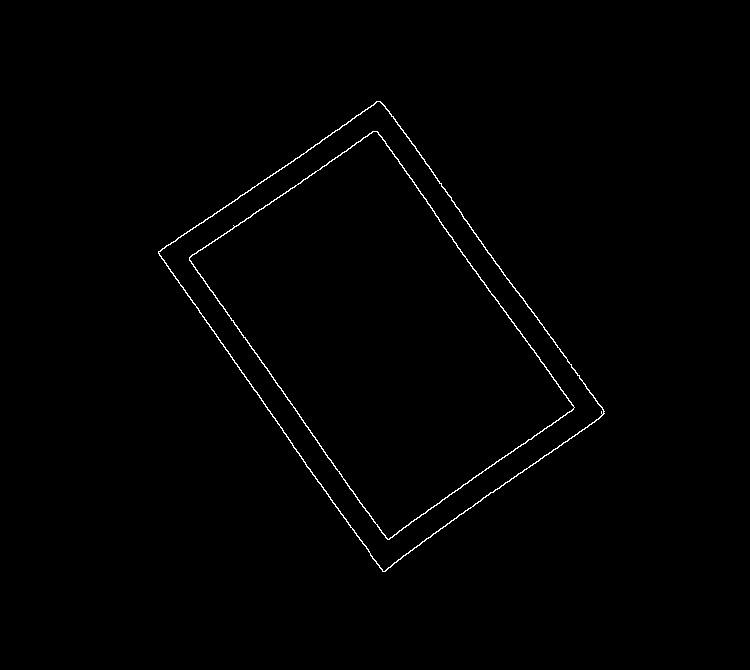
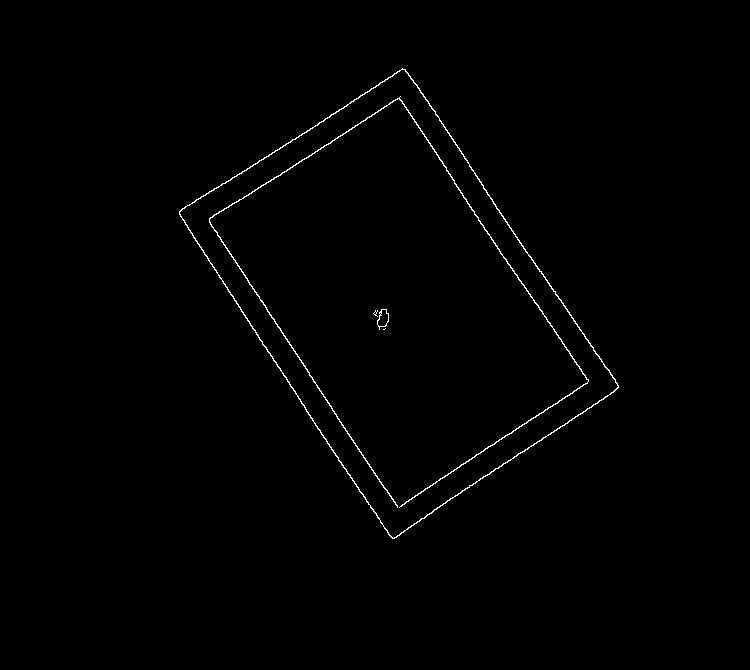
都成了

diff --git a/utils/line.py b/utils/line.py
@@ -1,0 +1,141 @@
+#!/usr/bin/env python3
+#coding=utf-8
+
+#============================#
+#Program:RANSAC_Line.py
+#       
+#Date:20-2-29
+#Author:liheng
+#Version:V1.0
+#============================#
+
+import numpy as np
+import random
+import math
+
+import cv2
+
+def fitLineRansac(points,iterations=1000,sigma=1.0,k_min=-7,k_max=7):
+    """
+    RANSAC 拟合2D 直线
+    :param points:输入点集,numpy [points_num,1,2],np.float32
+    :param iterations:迭代次数
+    :param sigma:数据和模型之间可接受的差值,车道线像素宽带一般为10左右
+                （Parameter use to compute the fitting score）
+    :param k_min:
+    :param k_max:k_min/k_max--拟合的直线斜率的取值范围.
+                考虑到左右车道线在图像中的斜率位于一定范围内，
+                添加此参数，同时可以避免检测垂线和水平线
+    :return:拟合的直线参数,It is a vector of 4 floats
+                (vx, vy, x0, y0) where (vx, vy) is a normalized
+                vector collinear to the line and (x0, y0) is some
+                point on the line.
+    """
+    line = [0,0,0,0]
+    points_num = points.shape[0]
+
+    if points_num<2:
+        return line
+
+    bestScore = -1
+    for k in range(iterations):
+        i1,i2 = random.sample(range(points_num), 2)
+        p1 = points[i1][0]
+        p2 = points[i2][0]
+
+        dp = p1 - p2 #直线的方向向量
+        dp *= 1./np.linalg.norm(dp) # 除以模长，进行归一化
+
+        score = 0
+        a = dp[1]/dp[0]
+        if a <= k_max and a>=k_min:
+            for i in range(points_num):
+                v = points[i][0] - p1
+                dis = v[1]*dp[0] - v[0]*dp[1]#向量a与b叉乘/向量b的摸.||b||=1./norm(dp)
+                # score += math.exp(-0.5*dis*dis/(sigma*sigma))误差定义方式的一种
+                if math.fabs(dis)<sigma:
+                    score += 1
+        if score > bestScore:
+            line = [dp[0],dp[1],p1[0],p1[1]]
+            bestScore = score
+
+    return line
+
+
+
+if __name__ == '__main__':
+    image = np.ones([720,1280,3],dtype=np.ubyte)*125
+
+    # 以车道线参数为(0.7657, -0.6432, 534, 548)生成一系列点
+    k = -0.6432 / 0.7657
+    b = 548 - k * 534
+
+    points = []
+    for i in range(360,720,10):
+        point = (int((i-b)/k),i)
+        points.append(point)
+
+    # 加入直线的随机噪声
+    for i in range(360,720,10):
+        x = int((i-b)/k)
+        x = random.sample(range(x-10,x+10),1)
+        y = i
+        y = random.sample(range(y - 30, y + 30),1)
+
+        point = (x[0],y[0])
+        points.append(point)
+
+    # 加入噪声
+    for i in range(0,720,20):
+        x = random.sample(range(1, 640), 1)
+        y = random.sample(range(1, 360), 1)
+        point = (x[0], y[0])
+        points.append(point)
+
+    for point in points:
+        cv2.circle(image,point,5,(0,0,0),-1)
+
+
+    points = np.array(points).astype(np.float32)
+    points = points[:,np.newaxis,:]
+
+    # RANSAC 拟合
+    if 1:
+        [vx, vy, x, y] = fitLineRansac(points,1000,10)
+        k = float(vy) / float(vx)  # 直线斜率
+        b = -k * x + y
+
+        p1_y = 720
+        p1_x = (p1_y-b) / k
+        p2_y = 360
+        p2_x = (p2_y-b) / k
+
+        p1 = (int(p1_x),int(p1_y))
+        p2 = (int(p2_x), int(p2_y))
+
+        cv2.line(image,p1,p2,(0,255,0),2)
+
+    # 最小二乘法拟合
+    if 1:
+        [vx, vy, x, y] = cv2.fitLine(points, cv2.DIST_L2, 0, 0.1, 0.01)
+        k = float(vy) / float(vx)  # 直线斜率
+        b = -k * x + y
+
+        p1_y = 720
+        p1_x = (p1_y - b) / k
+        p2_y = 360
+        p2_x = (p2_y - b) / k
+
+        p1 = (int(p1_x), int(p1_y))
+        p2 = (int(p2_x), int(p2_y))
+
+        cv2.line(image, p1, p2, (0, 0, 255), 2)
+
+
+    cv2.imshow('image',image)
+    cv2.waitKey(0)
+
+
+
+
+

diff --git a/utils/rectangle.py b/utils/rectangle.py
@@ -1,0 +1,74 @@
+import cv2
+import numpy as np
+
+def get_rectangle(img: np.ndarray):
+    # 获取黑色矩形靶
+    img = img[50:800, 250:1000] 
+    cai = img
+    # 转灰度
+    img = cv2.cvtColor(img, cv2.COLOR_BGR2GRAY)
+    cv2.imwrite('data/out/01.jpg', img)
+    # 二值化
+    # ret, img = cv2.threshold(img, 50, 220, cv2.THRESH_BINARY)
+    img = cv2.Canny(img, 50, 220)
+    cv2.imwrite('data/out/02.jpg', img)
+    # 轮廓检测，获取最外层矩形框的偏转角度angle
+    contours, hier = cv2.findContours(img, cv2.RETR_EXTERNAL, cv2.CHAIN_APPROX_SIMPLE)
+    for contour in contours:  #遍历轮廓
+        # 近似轮廓为直边四边形
+        approx = cv2.approxPolyDP(contour, 0.01 * cv2.arcLength(contour, True), True)
+        # 如果近似的轮廓有四个顶点，认为是矩形
+        if len(approx) == 4:
+            # 计算矩形的旋转角度
+            rect = cv2.minAreaRect(contour)
+            angle = rect[2]
+            # 在图像中绘制检测到的矩形
+            cv2.drawContours(cai, [contour], 0, (0, 0, 255), 2)
+            # 4个边角
+            print([list(i[0]) for i in approx])
+        # box_ = cv2.boxPoints(rect)
+        # h = abs(box_[3, 1] - box_[1, 1])
+        # w = abs(box_[3, 0] - box_[1, 0])
+        # print("宽，高",w,h)
+        # box = cv2.boxPoints(rect)  # 计算最小面积矩形的坐标
+        # box = np.int0(box)  # 将坐标规范化为整数
+        # angle = rect[2]  #获取矩形相对于水平面的角度
+        # cv2.drawContours(cut, [box], 0, (255, 0, 255), 3)
+        
+    print("轮廓数量", len(contours))
+    cv2.imwrite('data/out/05.jpg', cai)
+    
+    
+def get_white(img: np.ndarray):
+    """
+    获取细小边界
+    """
+    img = img[50:800, 250:1000] 
+    cai = img
+    gray = cv2.cvtColor(img, cv2.COLOR_BGR2GRAY)
+    # 只保留图像中的黑线
+    ret, gray = cv2.threshold(gray, 80, 210, cv2.THRESH_BINARY_INV)
+    cv2.imwrite('data/out/gray.jpg', gray)
+    # 霍夫变换
+    lines = cv2.HoughLinesP(gray, 100, np.pi / 20,
+                            threshold=0,
+                            minLineLength=100,
+                            maxLineGap=10 )
+    """
+    增加minLineLength参数：增加minLineLength参数的值可以过滤掉较短的线段，从而减少一些断点的影响。通过逐渐增加minLineLength的值，你可以选择保留长度适中的直线段。
+    霍夫变换的阈值参数用于控制检测到的直线的数量。具体来说，它定义了在霍夫空间中曲线交点的最小投票数，投票数低于该阈值的直线将被忽略。
+    较低的阈值将导致更多的直线被检测出来，包括一些噪声和不准确的线段。较高的阈值将筛选掉较少的直线，只保留较强和较明显的线段。
+    """
+    if  lines is None:
+        print("line not found !!!!!!!!!!! ")
+        return
+    print(len(lines))
+    for line in lines:
+        x1 = line[0][0]
+        y1 = line[0][1]
+        x2 = line[0][2]
+        y2 = line[0][3]
+        cv2.line(cai, (x1, y1), (x2, y2), (0, 255, 0), 2)
+        
+    cv2.imwrite('data/out/lines.jpg', cai)
+    

diff --git a/main.py b/main.py
@@ -1,71 +1,17 @@
-import numpy as np
-from loguru import logger
-from utils.pic import save_one_pic, read_pic, load_pic
-import cv2
-# save_one_pic()
-# print(type(read_pic("data/2023-08-02_07:18:00_3d26.jpg")))
+from utils.pic import save_one_pic, read_pic, load_pic, get_pic
+from utils.rectangle import get_rectangle, get_white
 
-
-def get_rectangle(img: np.ndarray):
-    img = img[50:800, 250:1000] 
-    cai = img
-    # 转灰度
-    img = cv2.cvtColor(img, cv2.COLOR_BGR2GRAY)
-    cv2.imwrite('data/out/01.jpg', img)
-    # 二值化
-    # ret, img = cv2.threshold(img, 50, 220, cv2.THRESH_BINARY)
-    img = cv2.Canny(img, 50, 220)
-    cv2.imwrite('data/out/02.jpg', img)
-    # 轮廓检测，获取最外层矩形框的偏转角度angle
-    contours, hier = cv2.findContours(img, cv2.RETR_EXTERNAL, cv2.CHAIN_APPROX_SIMPLE)
-    for contour in contours:  #遍历轮廓
-        # 近似轮廓为直边四边形
-        approx = cv2.approxPolyDP(contour, 0.01 * cv2.arcLength(contour, True), True)
-        print(approx)
-        # 如果近似的轮廓有四个顶点，认为是矩形
-        if len(approx) == 4:
-            # 计算矩形的旋转角度
-            rect = cv2.minAreaRect(contour)
-            angle = rect[2]
-            # 在图像中绘制检测到的矩形
-            cv2.drawContours(cai, [contour], 0, (0, 0, 255), 2)
-        # box_ = cv2.boxPoints(rect)
-        # h = abs(box_[3, 1] - box_[1, 1])
-        # w = abs(box_[3, 0] - box_[1, 0])
-        # print("宽，高",w,h)
-        # box = cv2.boxPoints(rect)  # 计算最小面积矩形的坐标
-        # box = np.int0(box)  # 将坐标规范化为整数
-        # angle = rect[2]  #获取矩形相对于水平面的角度
-        # cv2.drawContours(cut, [box], 0, (255, 0, 255), 3)
-        
-    print("轮廓数量", len(contours))
-    cv2.imwrite('data/out/05.jpg', cai)
-    
-    
-def get_white(img: np.ndarray):
-    gray = cv2.cvtColor(img, cv2.COLOR_BGR2GRAY)
-    ret, img = cv2.threshold(gray, 90, 210, cv2.THRESH_BINARY)
-    cv2.imwrite('data/out/thre.jpg', img)
-    # # 图像腐蚀操作
-    kernel = np.ones((3, 1), np.uint8)
-    # cv2.imwrite('data/out/kernel.jpg', kernel)
-    # 图像膨胀操作
-    dilation = cv2.dilate(img, kernel, iterations=5)
-    cv2.imwrite('data/out/dilation.jpg', dilation)
-    
-    opening = cv2.morphologyEx(gray, cv2.MORPH_OPEN, kernel)
-    
-    closing = cv2.morphologyEx(opening, cv2.MORPH_CLOSE, kernel)
-    cv2.imwrite('data/out/closing.jpg', closing)
-    
-    cv2.imwrite('data/out/02.jpg', img)
-    
     
 if __name__ == "__main__":
+    # # 拍照
     # save_one_pic()
     
-    img = load_pic('data/02.jpg')
+    # # 识别外细线框
+    # img = load_pic('data/11.jpg')
+    # get_white(img)
+    
+    
+    # # 识别黑框
+    img = load_pic('data/12.jpg')
     get_rectangle(img)
     
-    # img = load_pic('data/01.jpg')
-    # get_white(img)

diff --git a/utils/pic.py b/utils/pic.py
@@ -65,6 +65,11 @@ def read_pic() -> np.ndarray:
         return frame
     return False
 
+def get_pic():
+    ret, frame = cap.read()
+    if ret:
+        return frame
+    return ret
 
 if __name__ == "__main__":
     print(type(read_pic()))
